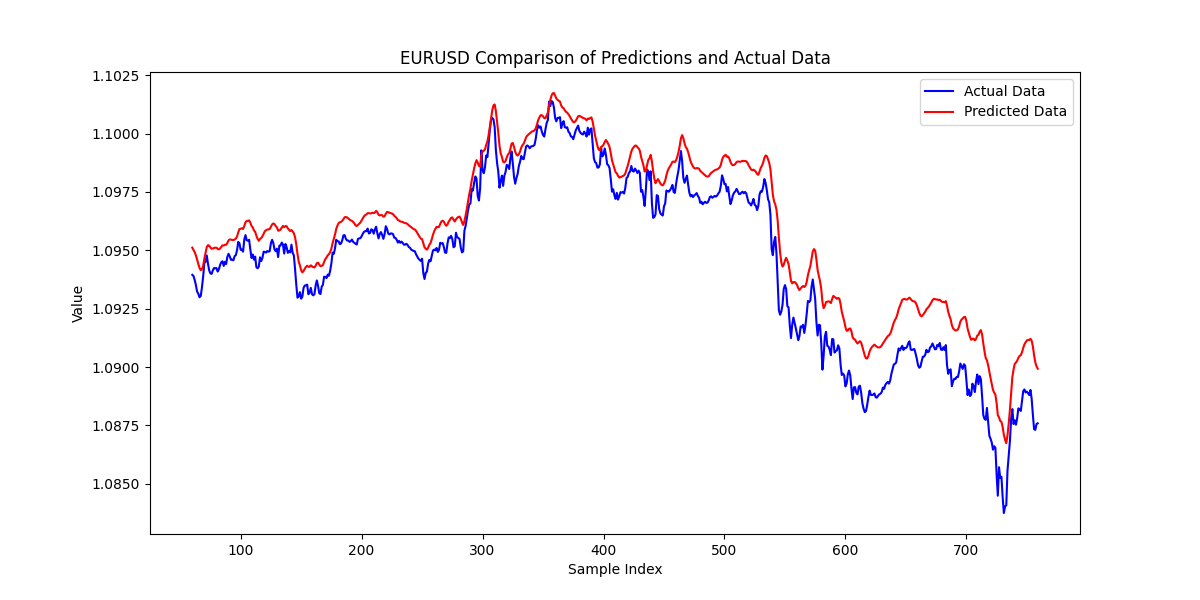
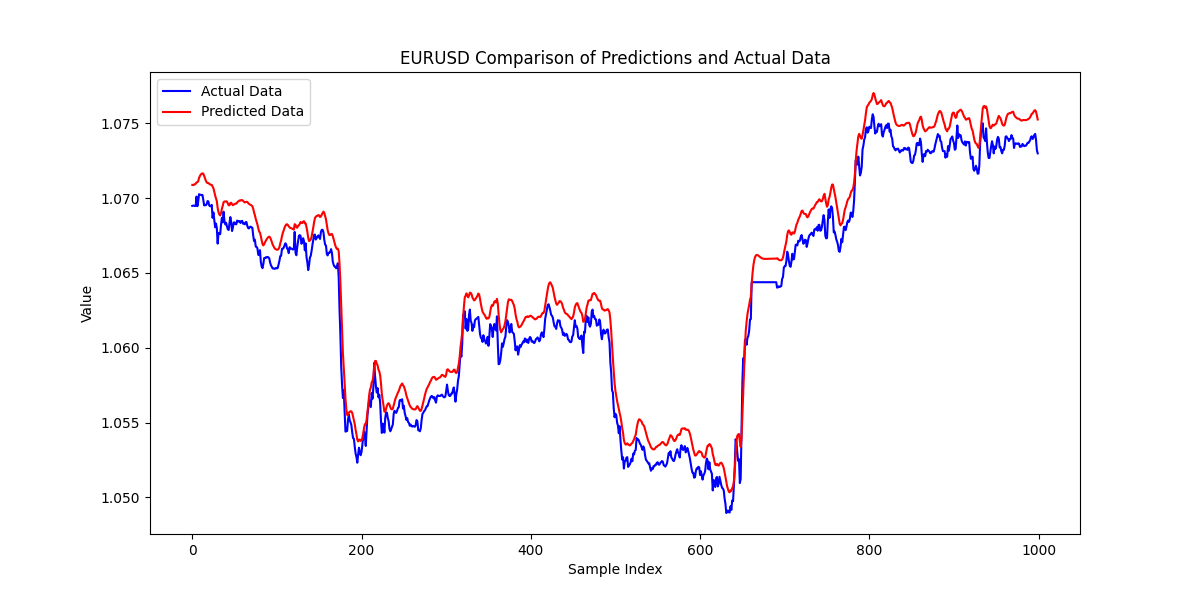
Updated predict logic to include more predictions

diff --git a/plots.py b/plots.py
@@ -2,9 +2,13 @@ import pandas as pd
 import matplotlib.pyplot as plt
 import seaborn as sns
 
+num=5000
+path= 'Output/'
 # Read the data from CSV file
-df = pd.read_csv('prediction_results.csv')
-path= 'Output/images/'
+df = pd.read_csv(f'{path}prediction_result_{num}.csv')
+
+path = 'Output/images/'
+
 
 # Box plot of MAE
 plt.figure(figsize=(10, 6))
@@ -12,7 +16,7 @@ sns.boxplot(data=df, x='MAE')
 plt.title('Distribution of Mean Absolute Error (MAE)')
 plt.xlabel('Mean Absolute Error (MAE)')
 plt.tight_layout()
-plt.savefig(f'{path}mae_boxplot.png')  # Save the plot as a PNG file
+plt.savefig(f'{path}_mae_boxplot_{num}.png')  # Save the plot as a PNG file
 
 # Box plot of R-squared
 plt.figure(figsize=(10, 6))
@@ -20,13 +24,13 @@ sns.boxplot(data=df, x='R-squared')
 plt.title('Distribution of R-squared')
 plt.xlabel('R-squared')
 plt.tight_layout()
-plt.savefig(f'{path}r_squared_boxplot.png')  # Save the plot as a PNG file
+plt.savefig(f'{path}_r_squared_boxplot.png')  # Save the plot as a PNG file
 
 # Pairplot
 sns.pairplot(df[['MAE', 'R-squared', 'Final Portfolio Value', 'Profit/Loss']])
 plt.suptitle('Pairwise Relationships')
 plt.tight_layout()
-plt.savefig(f'{path}pairplot.png')  # Save the plot as a PNG file
+plt.savefig(f'{path}_pairplot_{num}.png')  # Save the plot as a PNG file
 
 # Histogram of MAE
 plt.figure(figsize=(10, 6))
@@ -35,7 +39,7 @@ plt.title('Distribution of Mean Absolute Error (MAE)')
 plt.xlabel('Mean Absolute Error (MAE)')
 plt.ylabel('Frequency')
 plt.tight_layout()
-plt.savefig(f'{path}mae_histogram.png')  # Save the plot as a PNG file
+plt.savefig(f'{path}_mae_histogram_{num}.png')  # Save the plot as a PNG file
 
 # Histogram of R-squared
 plt.figure(figsize=(10, 6))
@@ -44,7 +48,7 @@ plt.title('Distribution of R-squared')
 plt.xlabel('R-squared')
 plt.ylabel('Frequency')
 plt.tight_layout()
-plt.savefig(f'{path}r_squared_histogram.png')  # Save the plot as a PNG file
+plt.savefig(f'{path}_r_squared_histogram_{num}.png')  # Save the plot as a PNG file
 
 # Scatter plot of MAE vs. R-squared
 plt.figure(figsize=(10, 6))
@@ -53,7 +57,7 @@ plt.title('MAE vs. R-squared')
 plt.xlabel('Mean Absolute Error (MAE)')
 plt.ylabel('R-squared')
 plt.tight_layout()
-plt.savefig(f'{path}mae_vs_r_squared.png')  # Save the plot as a PNG file
+plt.savefig(f'{path}_mae_vs_r_squared_{num}.png')  # Save the plot as a PNG file
 
 
 
@@ -71,6 +75,17 @@ plt.ylabel('1%Accuracy')
 plt.legend(loc='center left', bbox_to_anchor=(1, 0.5), ncol=1)
 plt.tight_layout()
 labelpoints(df['Direction Accuracy'], df['1%Accuracy'], df['Ticker'], plt.gca())
-plt.savefig(f'{path}direction_accuracy_vs_accuracy.png')  # Save the plot as a PNG file
+plt.savefig(f'{path}_direction_accuracy_vs_accuracy_{num}.png')  # Save the plot as a PNG file
+
+
+plt.figure(figsize=(10, 6))
+sns.scatterplot(data=df, x='Direction Accuracy', y='Percent Profit/Loss', hue='Ticker')
+plt.title('Direction Accuracy vs. Percent Profit/Loss')
+plt.xlabel('Direction Accuracy')
+plt.ylabel('Percent Profit/Loss')
+plt.legend(loc='center left', bbox_to_anchor=(1, 0.5), ncol=1)
+plt.tight_layout()
+labelpoints(df['Direction Accuracy'], df['Percent Profit/Loss'], df['Ticker'], plt.gca())
+plt.savefig(f'{path}_direction_accuracy_vs_percent_pl_{num}.png')  # Save the plot as a PNG file
 
 

diff --git a/main.py b/main.py
@@ -89,17 +89,19 @@ def train(ticker,file_path,num_epochs=10):
     # Plot training and validation loss
     plot_loss(training_loss_history, validation_loss_history)
 
-def predict(ticker,file_path,model_path,num=1000):
+def predict(ticker,file_path,model_path,num=10000):
     # Set the device 
     device = get_device()
     print(f"Using device: {device}")
 
     # Load and preprocess data
     dataset = load_data(file_path)
+
+    # keep only market hours
+    dataset = market_hours(dataset)
+
     train_data, validation_data = preprocess_data(dataset)
 
-    # Reduce the size of the validation data to be able to accomodate the window size and get the latest data
-    validation_data = validation_data.iloc[-5000:]
     dimensions = len(dataset.columns)-1
     pos =dataset.columns.get_loc(ticker) -1
 
@@ -130,8 +132,8 @@ def predict(ticker,file_path,model_path,num=1000):
     )
 
     # Calculate metrics and plot data
-    y_pred = predicted_prices[200:-100]
-    y_true = validation_data.iloc[259:, pos]
+    y_pred = predicted_prices
+    y_true = validation_data.iloc[59:, pos]
 
     # compare the length of the predictions and the actual values and get the minimum
     min_length = min(len(y_pred), len(y_true))
@@ -139,8 +141,7 @@ def predict(ticker,file_path,model_path,num=1000):
 
     mae, mse, rmse, r2 = calculate_metrics(y_true, y_pred)
     print(f"MAE: {mae}, MSE: {mse}, RMSE: {rmse}, R-squared: {r2}")
-    index = np.arange(60, len(y_true) + 60) #take into account the window size
-    plot_data(ticker, index, y_true, y_pred)
+    plot_data(ticker, y_true, y_pred, num)
 
 
 
@@ -150,9 +151,11 @@ def predict(ticker,file_path,model_path,num=1000):
 
 
     accuracy , direction_accuracy = calculate_accuracy(y_true, y_pred)
+    print(f"1% Accuracy: {accuracy}, Direction Accuracy: {direction_accuracy}")
+
 
     #write to csv. Create if not exists and append results to end of file
-    with open('Output/prediction_results.csv', 'a') as f:
+    with open(f'Output/prediction_result_{num}.csv', 'a') as f:
         #if the file is empty, write the header
         if f.tell() == 0:
             f.write("Ticker,MAE,MSE,RMSE,R-squared,Final Portfolio Value,Profit/Loss,Percent Profit/Loss,1%Accuracy,Direction Accuracy\n")

diff --git a/util.py b/util.py
@@ -125,15 +125,15 @@ def plot_loss(training_loss_history, validation_loss_history):
     plt.legend()
     plt.show()
 
-def plot_data(symbol, index, y_true,y_pred):
+def plot_data(symbol, y_true,y_pred,num):
     plt.figure(figsize=(12, 6))
-    plt.plot(index, y_true, label='Actual Data', color='blue')  
-    plt.plot(index, y_pred, label='Predicted Data', color='red')
+    plt.plot(y_true, label='Actual Data', color='blue')  
+    plt.plot(y_pred, label='Predicted Data', color='red')
     plt.title(f'{symbol} Comparison of Predictions and Actual Data')
-    plt.xlabel('Sample Index')
+    plt.xlabel('Number of 10min Ticks')
     plt.ylabel('Value')
     plt.legend()
-    plt.savefig(f'Output/images/{symbol}_comparison_new.png')
+    plt.savefig(f'Output/images/{symbol}_prediction_{num}.png')
 
 def calculate_metrics(y_true, y_pred):
     mae = mean_absolute_error(y_true, y_pred)

diff --git a/predict_pipeline.py b/predict_pipeline.py
@@ -2,6 +2,6 @@ import subprocess
 
 symbols = ['EURAUD', 'EURCAD', 'EURCHF', 'EURCZK', 'EURDKK', 'EURGBP', 'EURHKD', 'EURHUF', 'EURJPY', 'EURMXN', 'EURNOK', 'EURNZD', 'EURPLN', 'EURSEK', 'EURSGD', 'EURTRY', 'EURUSD', 'EURZAR']
 for symbol in symbols:
-    print(f"Predict model for {symbol}")
+    print(f"Predict values for {symbol}")
     model_path = f"models/LSTM/new_model_weights_{symbol}.pth"
     subprocess.run(['python', 'main.py', '--option', '2', '--ticker', symbol, '--file_path', 'Data/Forex-preprocessed/currencies.csv', '--model_path', model_path])
